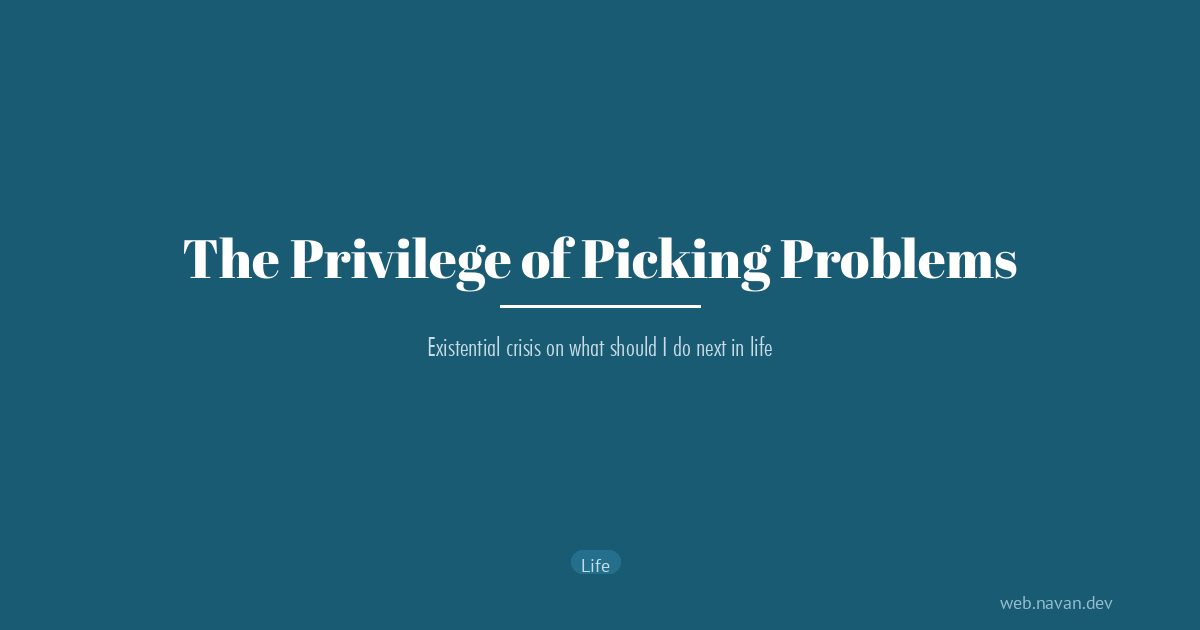
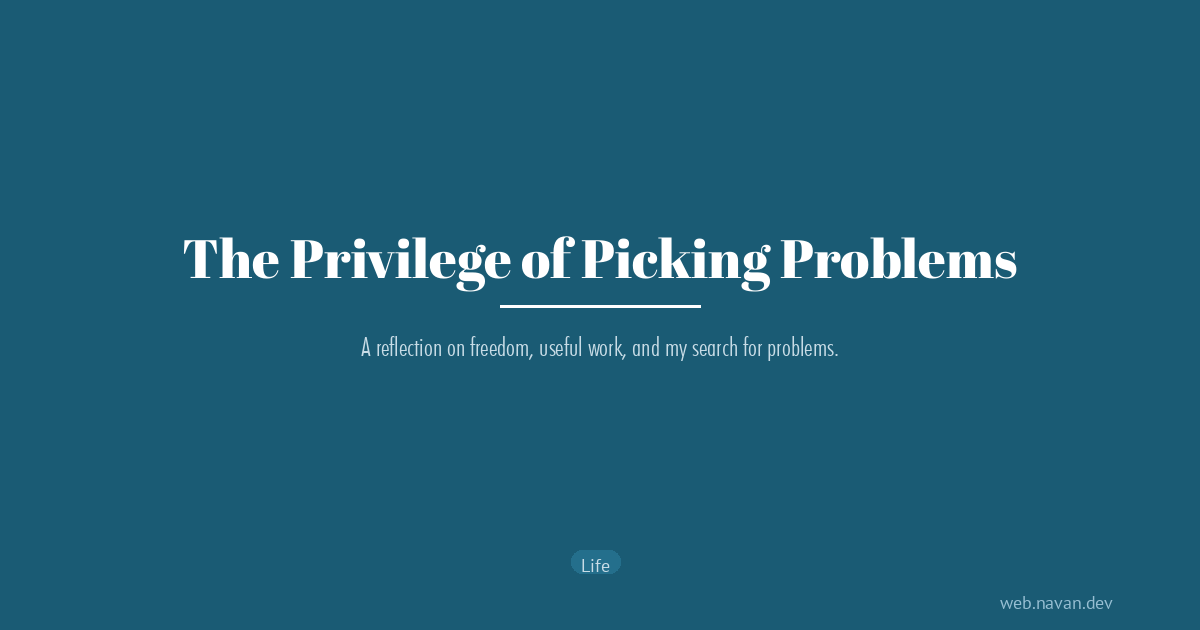
update description

Changed region(s): [[0.2775, 0.5429, 0.7092, 0.573]]

diff --git a/Content/posts/2026-04-28-the-priviege-of-picking-problems.md b/Content/posts/2026-04-28-the-priviege-of-picking-problems.md
@@ -1,6 +1,6 @@
 ---
 date: 2026-04-28 22:49
-description: Existential crisis on what should I do next in life
+description: A reflection on freedom, useful work, and my search for problems.
 tags: Life
 ---
 
